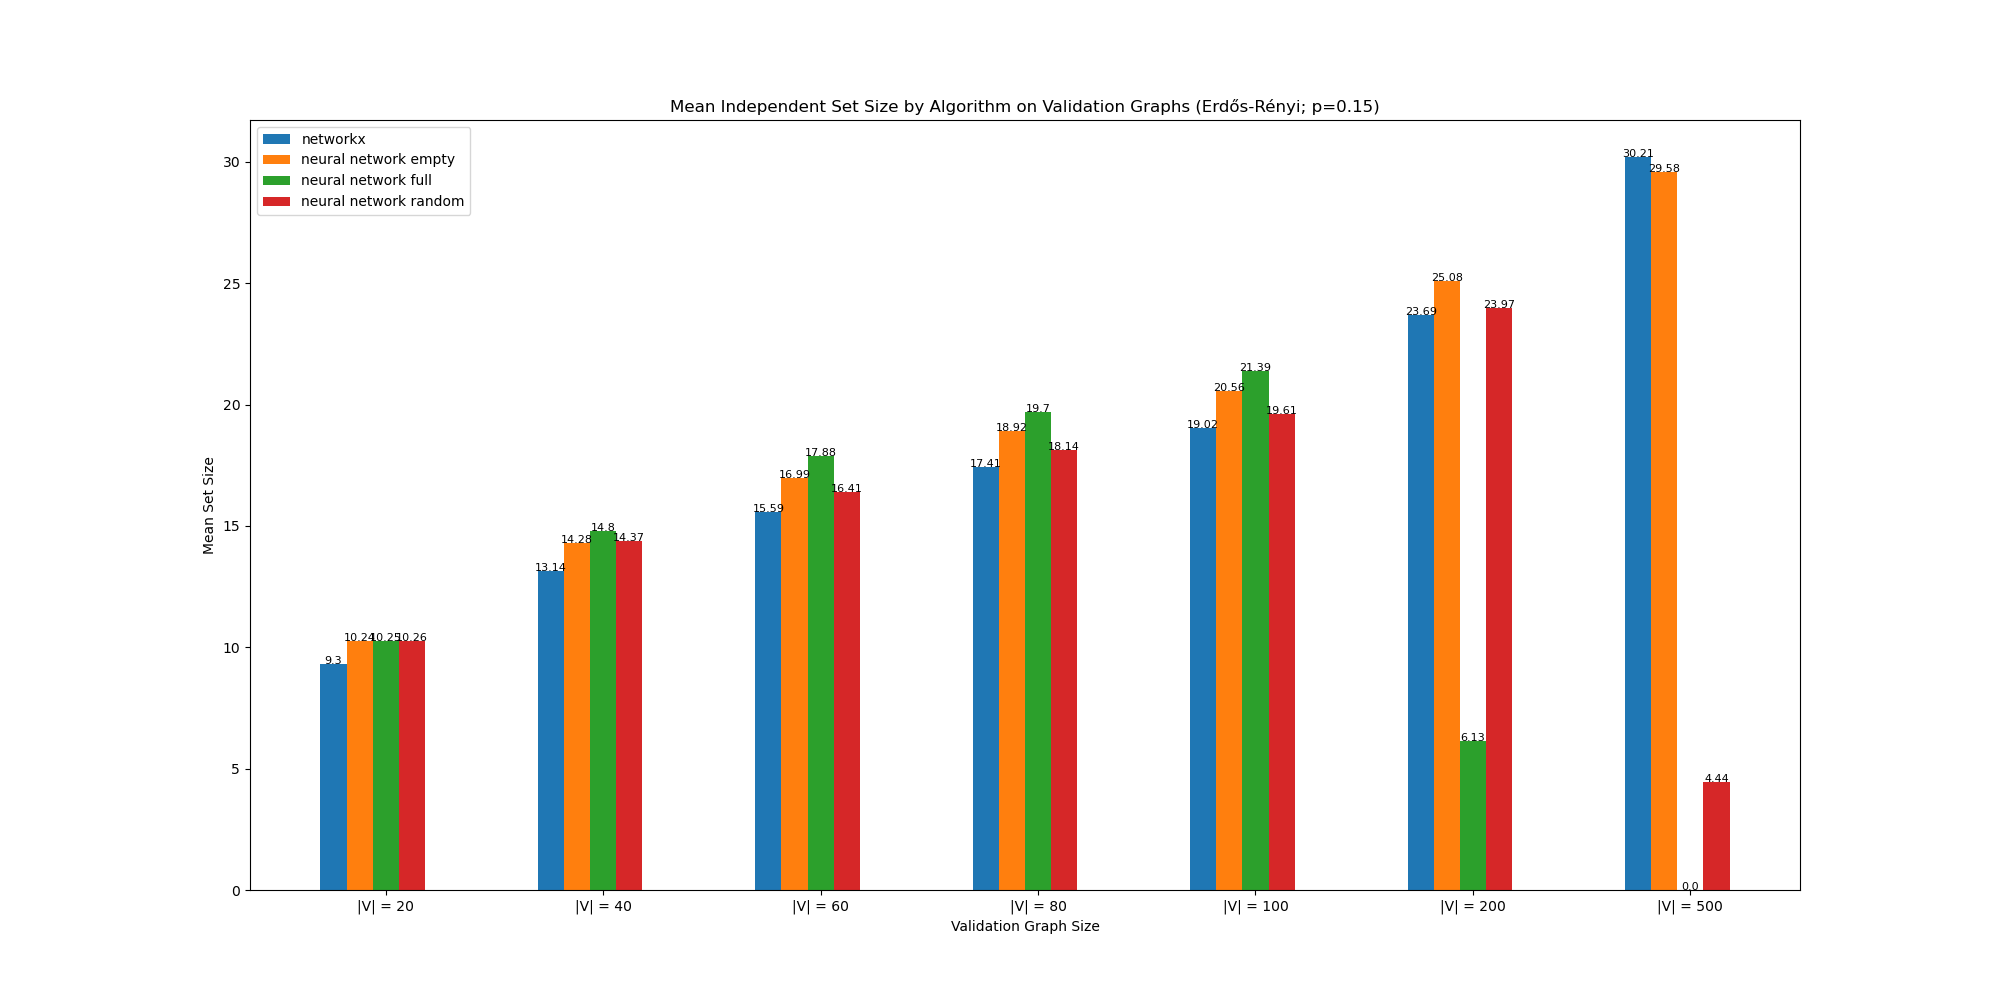
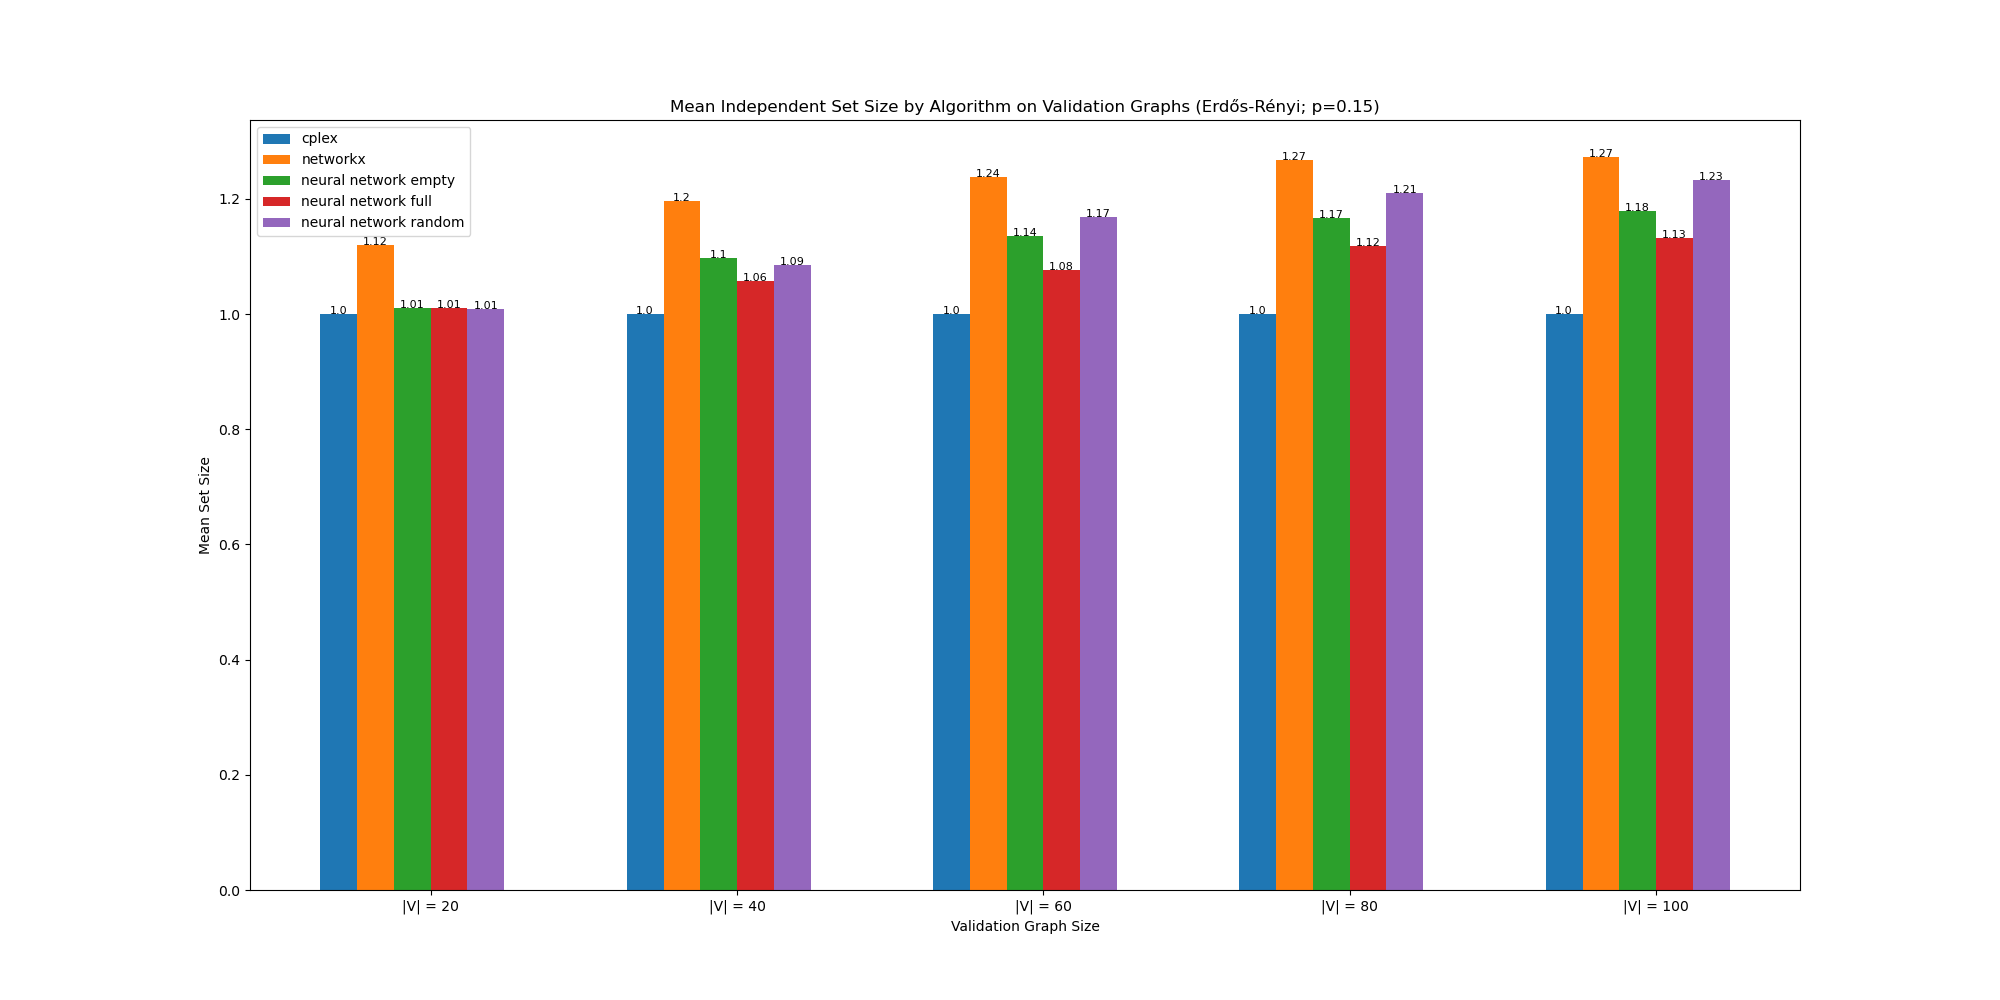
new data for max ind set, start max clique

diff --git a/experiments/train_eco.py b/experiments/train_eco.py
@@ -11,8 +11,8 @@ from src.agents.dqn.utils import TestMetric
 from src.envs.utils import (SetGraphGenerator,
                             RandomErdosRenyiGraphGenerator,
                             EdgeType, RewardSignal, ExtraAction,
-                            OptimisationTarget, SpinBasis,
-                            MVC_OBSERVABLES, DEFAULT_OBSERVABLES,
+                            OptimisationTarget, SpinBasis, 
+                            DEFAULT_OBSERVABLES, MAIN_OBSERVABLES,
                             RandomBarabasiAlbertGraphGenerator,
                             Observable)
 from src.networks.mpnn import MPNN
@@ -245,7 +245,7 @@ def run_with_vars(num_vertices=20, problem_type='min_cover', graph_type='ER', ne
         problem_params = {
             'optimisation': OptimisationTarget.MIN_COVER,
             'edge_type': EdgeType.UNIFORM,
-            'observables': MVC_OBSERVABLES,
+            'observables': MAIN_OBSERVABLES,
             'reversible_spins': True,
             'basin_reward': 1./num_vertices,
             'reward_signal': RewardSignal.BLS
@@ -272,7 +272,7 @@ def run_with_vars(num_vertices=20, problem_type='min_cover', graph_type='ER', ne
         problem_params = {
             'optimisation': OptimisationTarget.MAX_IND_SET,
             'edge_type': EdgeType.UNIFORM,
-            'observables': DEFAULT_OBSERVABLES,
+            'observables': MAIN_OBSERVABLES,
             'reversible_spins': True,
             'basin_reward': 1./num_vertices,
             'reward_signal': RewardSignal.BLS

diff --git a/src/envs/utils.py b/src/envs/utils.py
@@ -33,6 +33,7 @@ class OptimisationTarget(Enum):
     MIN_COVER = 3
     MIN_CUT = 4
     MAX_IND_SET = 5
+    MAX_CLIQUE = 6
 
 class SpinBasis(Enum):
 
@@ -80,20 +81,6 @@ MAIN_OBSERVABLES = [Observable.SPIN_STATE,
                     Observable.DISTANCE_FROM_BEST_STATE,
                     Observable.GLOBAL_VALIDITY_DIFFERENCE,
                     Observable.VALIDITY_BIT]
-
-# When invalid states are available for choosing, add observables
-MVC_OBSERVABLES = [Observable.SPIN_STATE,
-                   Observable.IMMEDIATE_VALIDITY_CHANGE,
-                   Observable.IMMEDIATE_VALIDITY_DIFFERENCE,
-                   Observable.IMMEDIATE_VALIDITY_CHANGE,
-                   Observable.TIME_SINCE_FLIP,
-                   Observable.TERMINATION_IMMANENCY,
-                   Observable.DISTANCE_FROM_BEST_SOLUTION,
-                   Observable.DISTANCE_FROM_BEST_STATE,
-                   Observable.NUMBER_OF_QUALITY_IMPROVEMENTS,
-                   Observable.NUMBER_OF_VALIDITY_IMPROVEMENTS,
-                   Observable.GLOBAL_VALIDITY_DIFFERENCE,
-                   Observable.VALIDITY_BIT]
 
 def calculate_cut(spins, matrix):
     """

diff --git a/src/envs/score_solver.py b/src/envs/score_solver.py
@@ -596,6 +596,9 @@ class MaximumIndependentSetUnbiasedSolver(MaximizationProblem):
         normalized_scores = self.get_validity_mask(spins, matrix) * updated_quality - updated_invalidity
         # Now we return the score on each vertex flip - the current score to get the update in score value on flip
         return normalized_scores - self.get_normalized_score(spins, matrix)
+    
+class MaximumCliqueUnbiasedSolver(MaximizationProblem):
+    pass
 
     
 
@@ -616,6 +619,9 @@ class ScoreSolverFactory():
         
         elif problem_type == env_utils.OptimisationTarget.MAX_IND_SET and not is_biased_graph:
             return MaximumIndependentSetUnbiasedSolver(problem_type, is_biased_graph)
+        
+        elif problem_type == env_utils.OptimisationTarget.MAX_CLIQUE and not is_biased_graph:
+            return MaximumCliqueUnbiasedSolver(problem_type, is_biased_graph)
         
         # If make it here, invalid target
         raise NotImplementedError("Invalid optimization target: %s and biased %s", problem_type, is_biased_graph)

diff --git a/create_mvc_test_plots.py b/create_mvc_test_plots.py
@@ -1,8 +1,8 @@
 import matplotlib.pyplot as plt
 import numpy as np
 
-vert_counts = [20, 40, 60, 80, 100, 200, 500]
-problem_type = 'min_cover'
+vert_counts = [20, 40, 60, 80, 100]
+problem_type = 'max_ind_set'
 training_graph_size = 20
 
 x = ["|V| = {}".format(i) for i in vert_counts]
@@ -39,7 +39,10 @@ else:
     cplex_solutions = [[1] * 100] * len(vert_counts)
 
 for alg in solution_data:
-    solution_data[alg] = list(np.divide(solution_data[alg], cplex_solutions))
+    if problem_type == 'max_ind_set' or problem_type == 'max_cut':
+        solution_data[alg] = list(np.divide(cplex_solutions, solution_data[alg]))
+    elif problem_type == 'min_cover' or problem_type == 'min_cut':
+        solution_data[alg] = list(np.divide(solution_data[alg], cplex_solutions))
 
 # Now we get the average approximation ratio for every sub-list
 for alg in solution_data:
